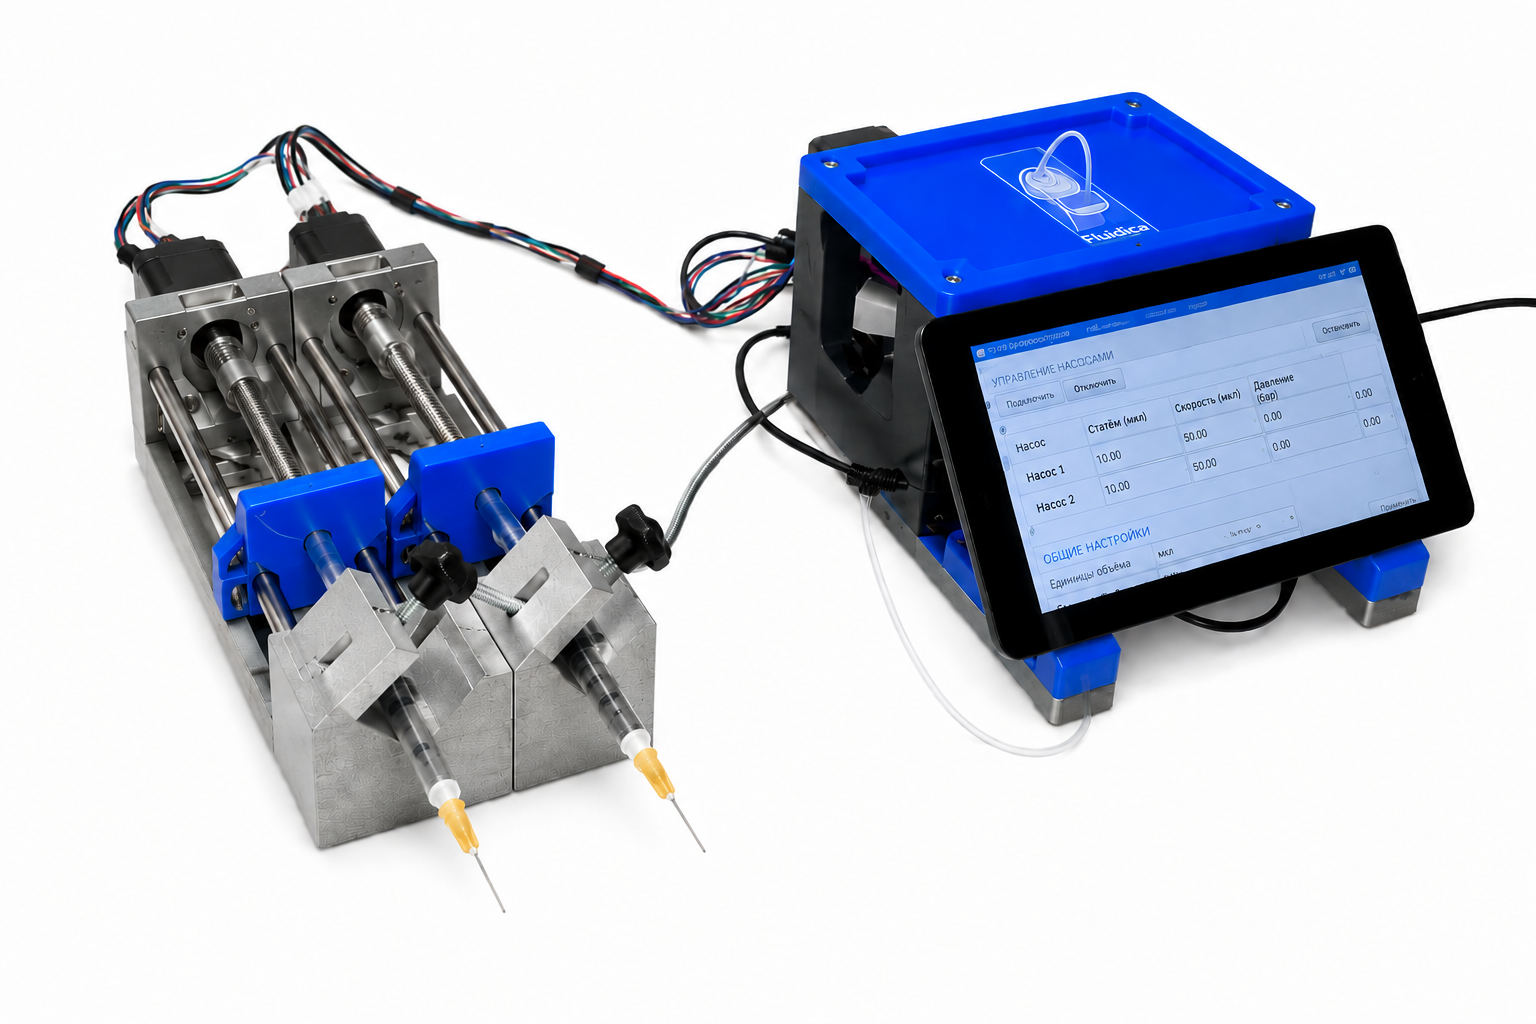
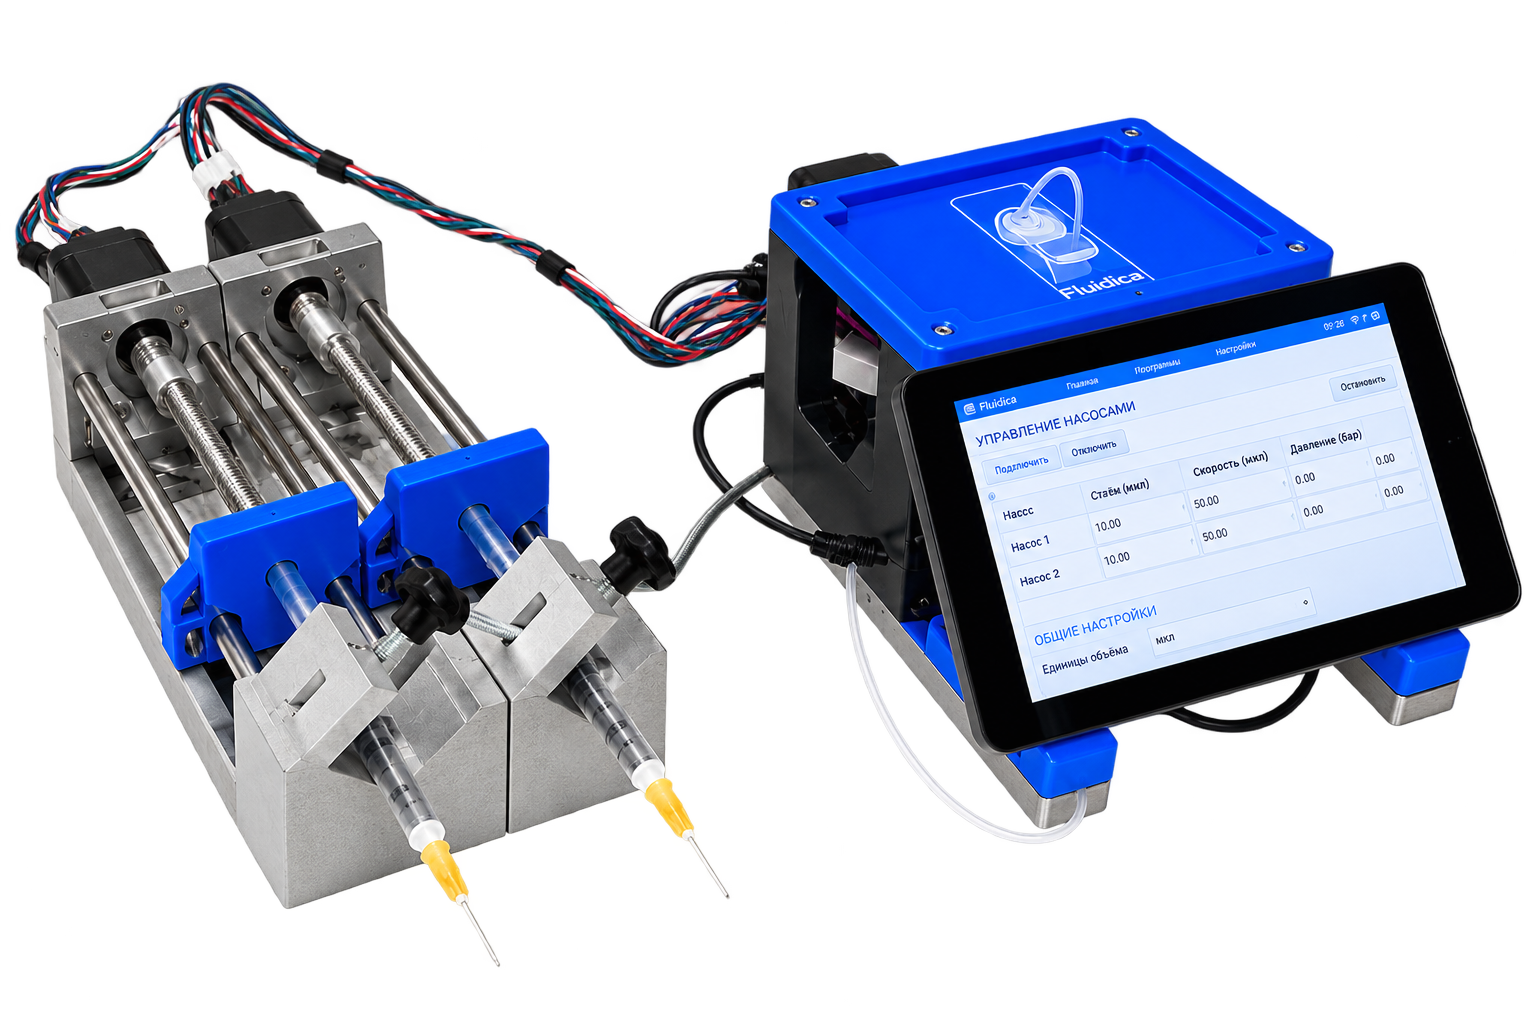
Обновить hero-фото насоса 2-канального на версию с прозрачным фоном
Новый pump-2.png (PNG с альфа-каналом) лежит прямо на фоне hero без
подложки/рамки; увеличена ширина изображения (~47% hero, до 760px) и
добавлена мягкая тень для читаемости на тёмном фоне.

diff --git a/product/nasos-2-kanalnyy-v-sbore/index.html b/product/nasos-2-kanalnyy-v-sbore/index.html
@@ -107,7 +107,7 @@
   .hero-text{min-width:0;}
   .hero-media{
     width:100%;
-    max-width:660px;
+    max-width:760px;
     margin:0 auto;
     align-self:center;
     transform:translateY(-4%);
@@ -118,6 +118,7 @@
     aspect-ratio:1536/1024;
     object-fit:contain;
     display:block;
+    filter:drop-shadow(0 18px 34px rgba(0,0,0,0.28));
   }
   .breadcrumb{
     display:flex;gap:8px;align-items:center;flex-wrap:wrap;
@@ -265,7 +266,7 @@
     nav{display:none;}
     .footer-grid{grid-template-columns:1fr 1fr;}
     .hero-inner{grid-template-columns:1fr;gap:32px;}
-    .hero-media{max-width:480px;transform:none;margin-top:4px;}
+    .hero-media{max-width:550px;transform:none;margin-top:4px;}
   }
   @media (max-width:560px){
     .footer-grid{grid-template-columns:1fr;}
